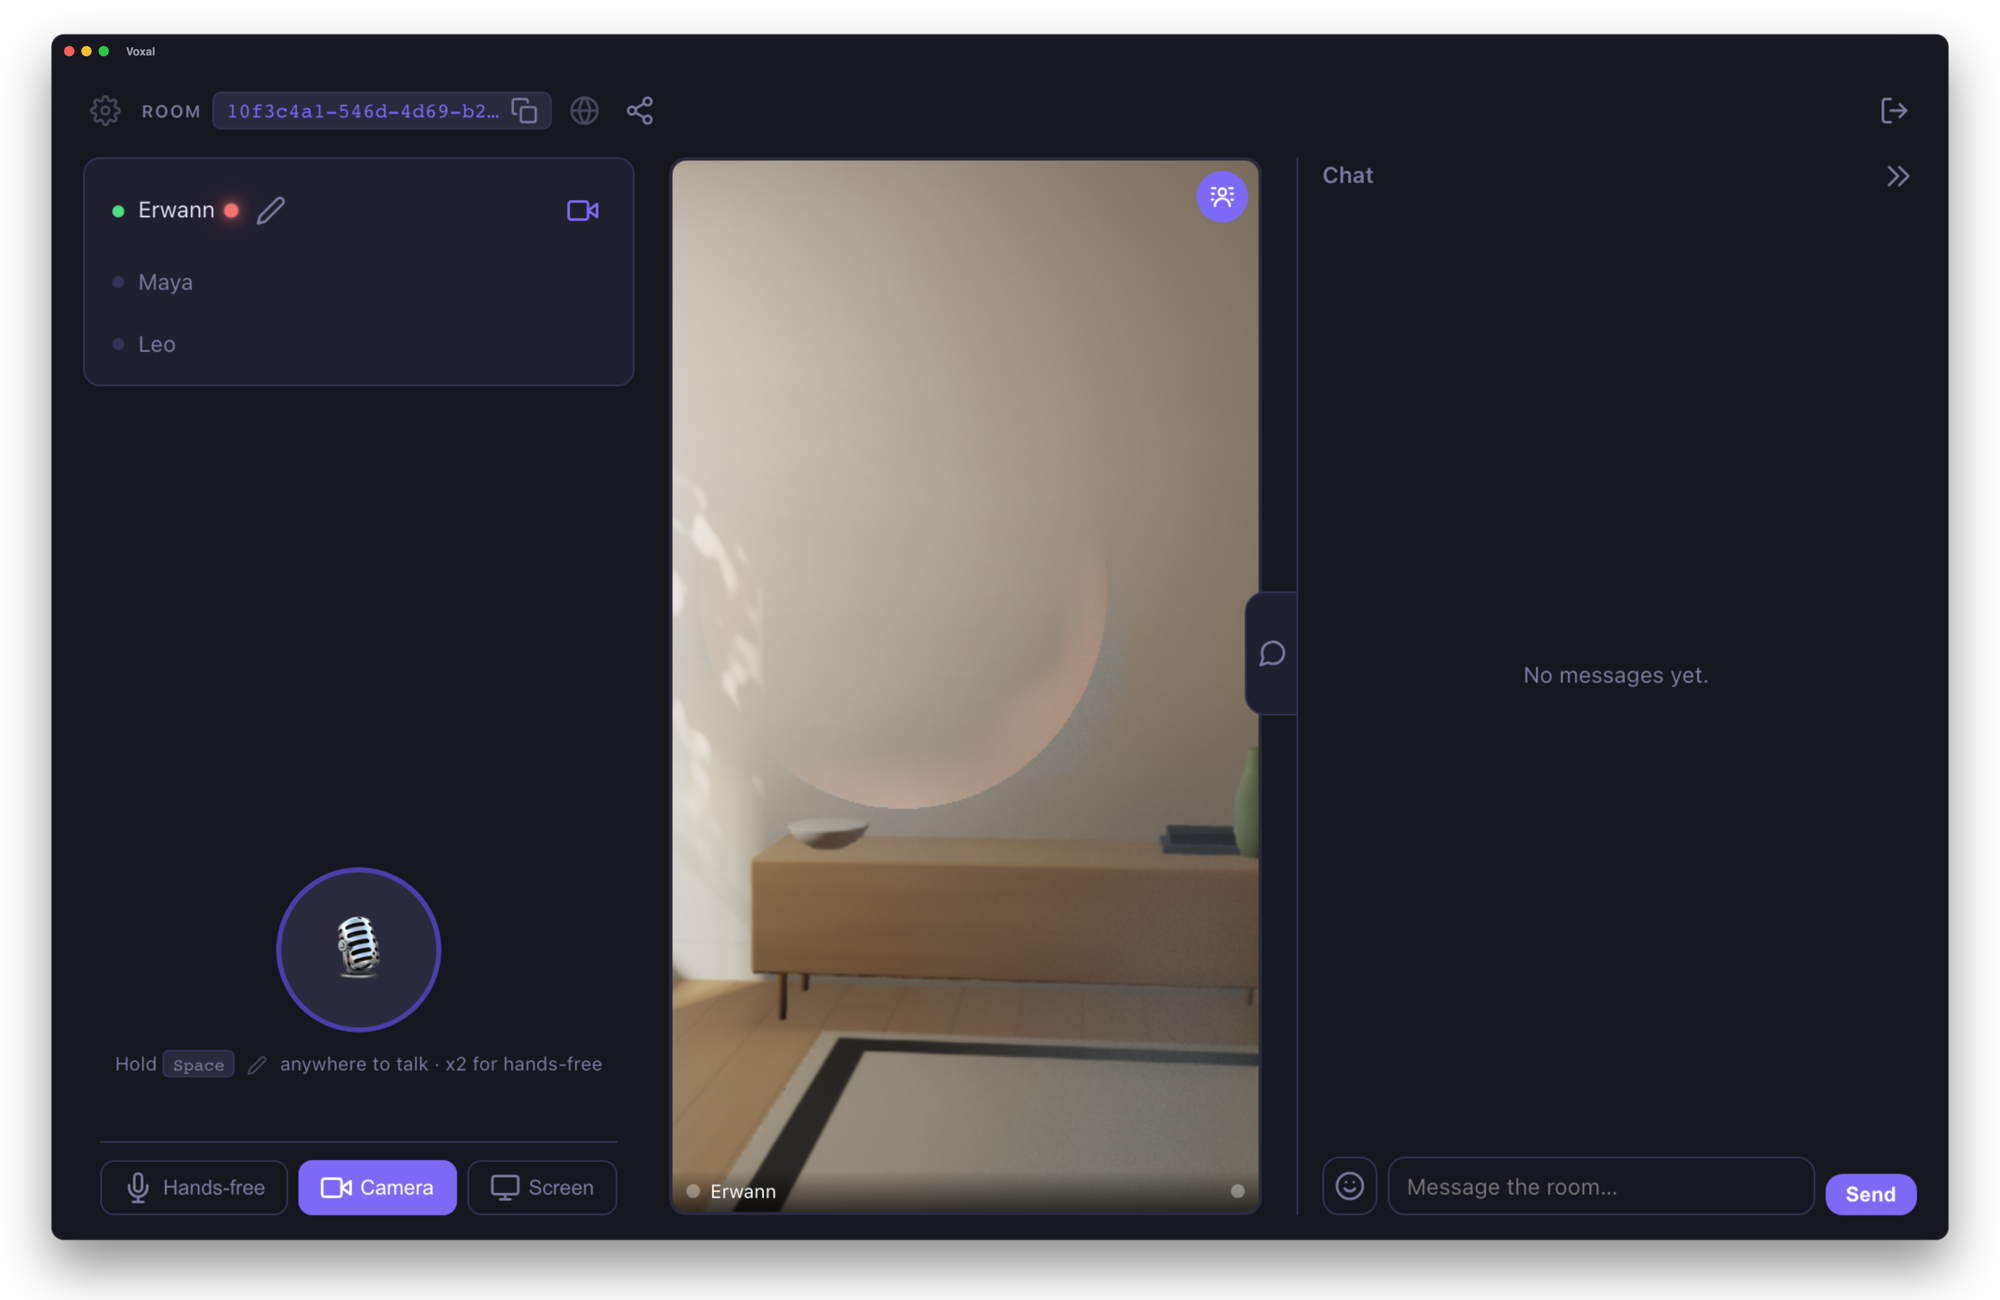
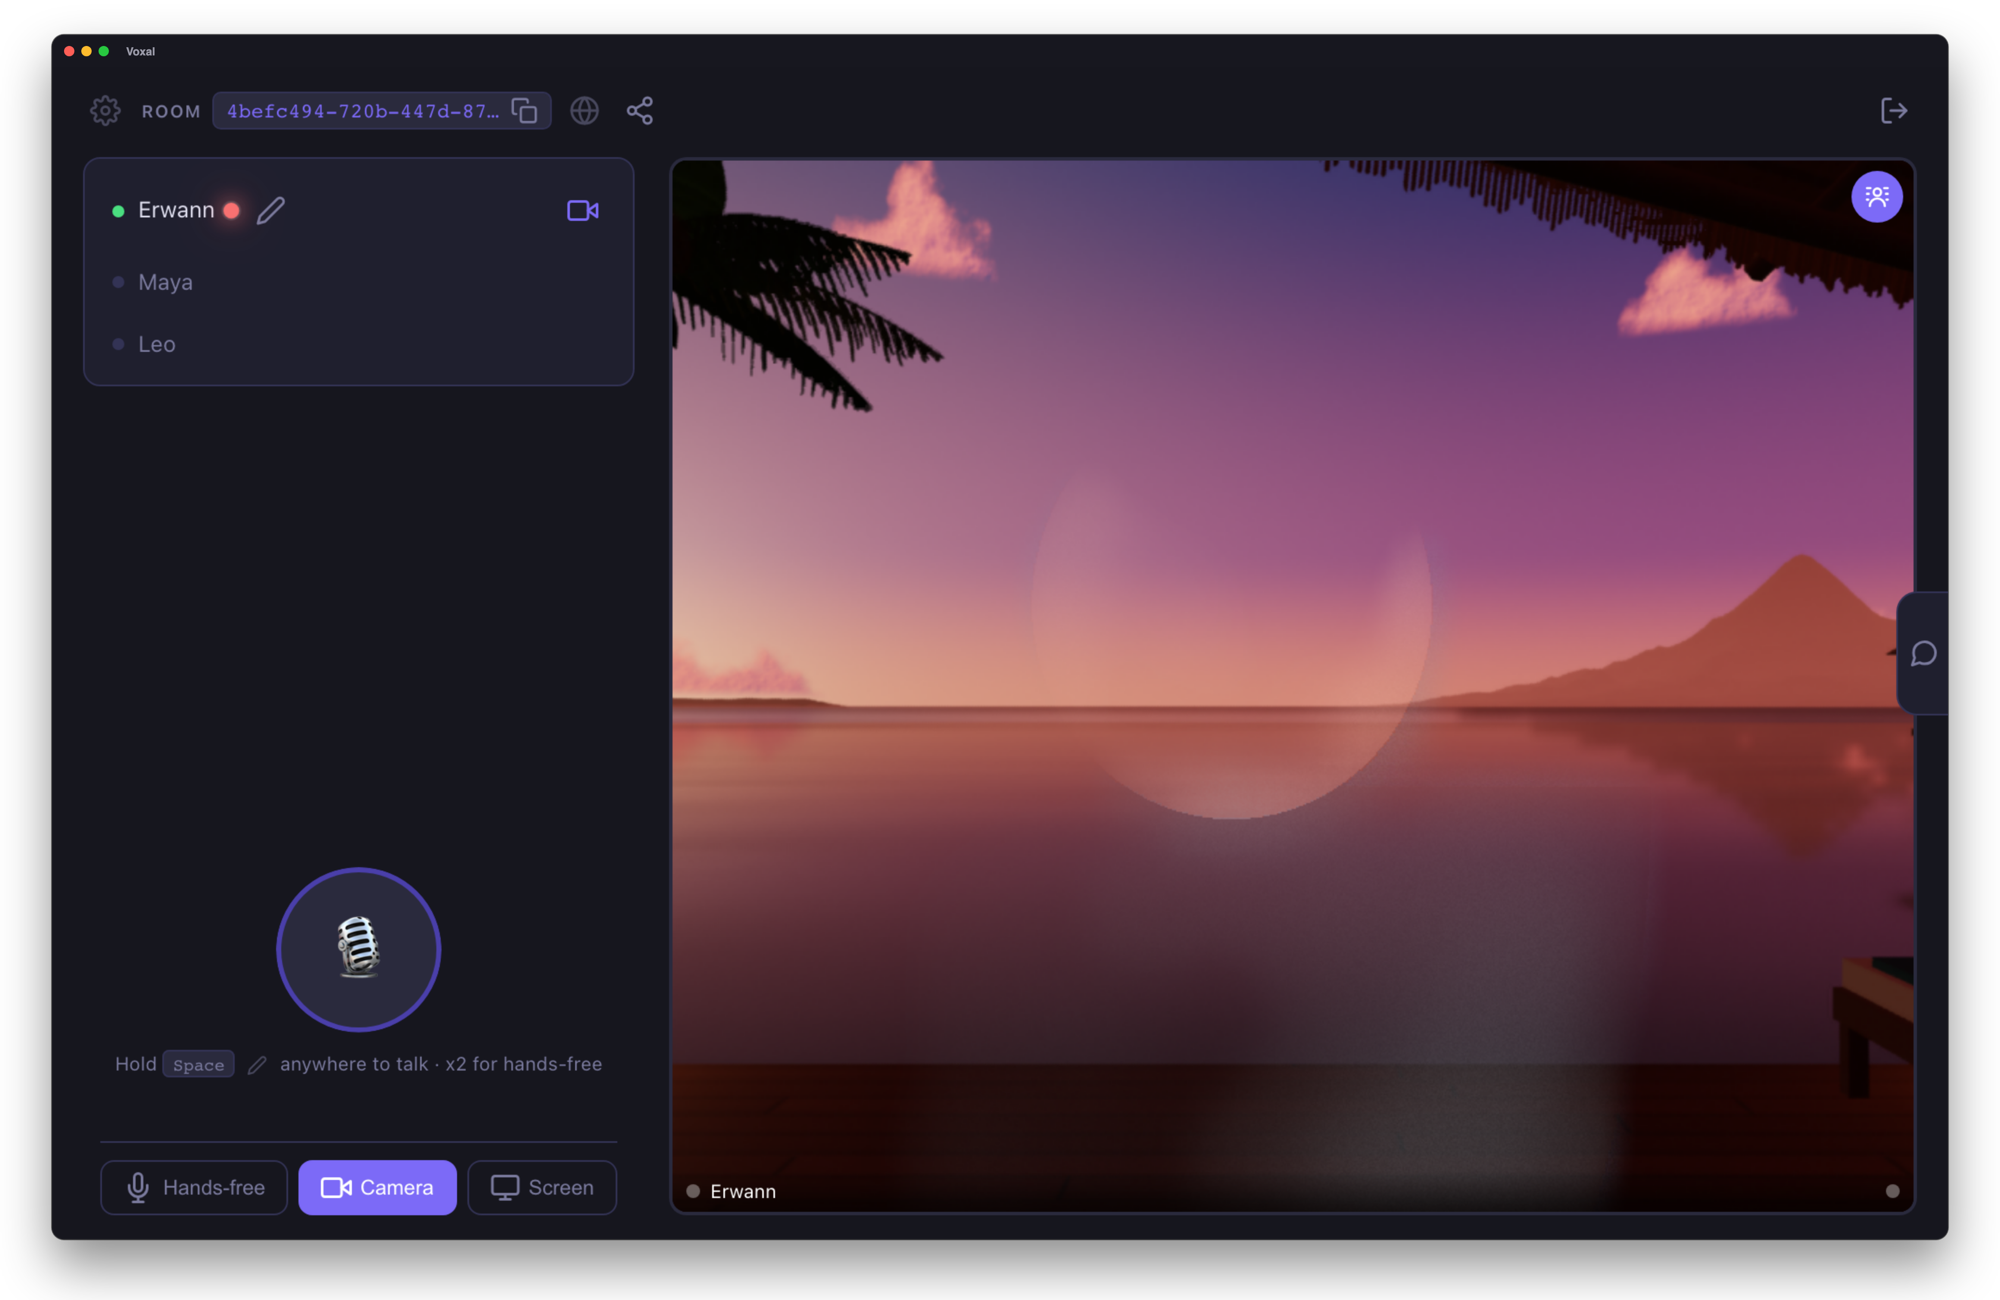
docs: video screenshots use the Lagoon deck, chat folded away
Night scene light in dark mode, midday in light mode.

diff --git a/README.md b/README.md
@@ -19,7 +19,7 @@ Instant push-to-talk voice rooms.
 | Dark | <img src="docs/voxal-screenshot-dark.png" width="260" alt="Voxal home (dark)"> | <img src="docs/voxal-screenshot-call-dark.png" width="260" alt="Voxal audio call (dark)"> |
 | Light | <img src="docs/voxal-screenshot-light.png" width="260" alt="Voxal home (light)"> | <img src="docs/voxal-screenshot-call-light.png" width="260" alt="Voxal audio call (light)"> |
 
-Video call with a virtual background (animated scene) and the chat drawer:
+Video call with an animated virtual background (the Lagoon deck, lit by night or by day):
 
 | Dark | Light |
 |---|---|
